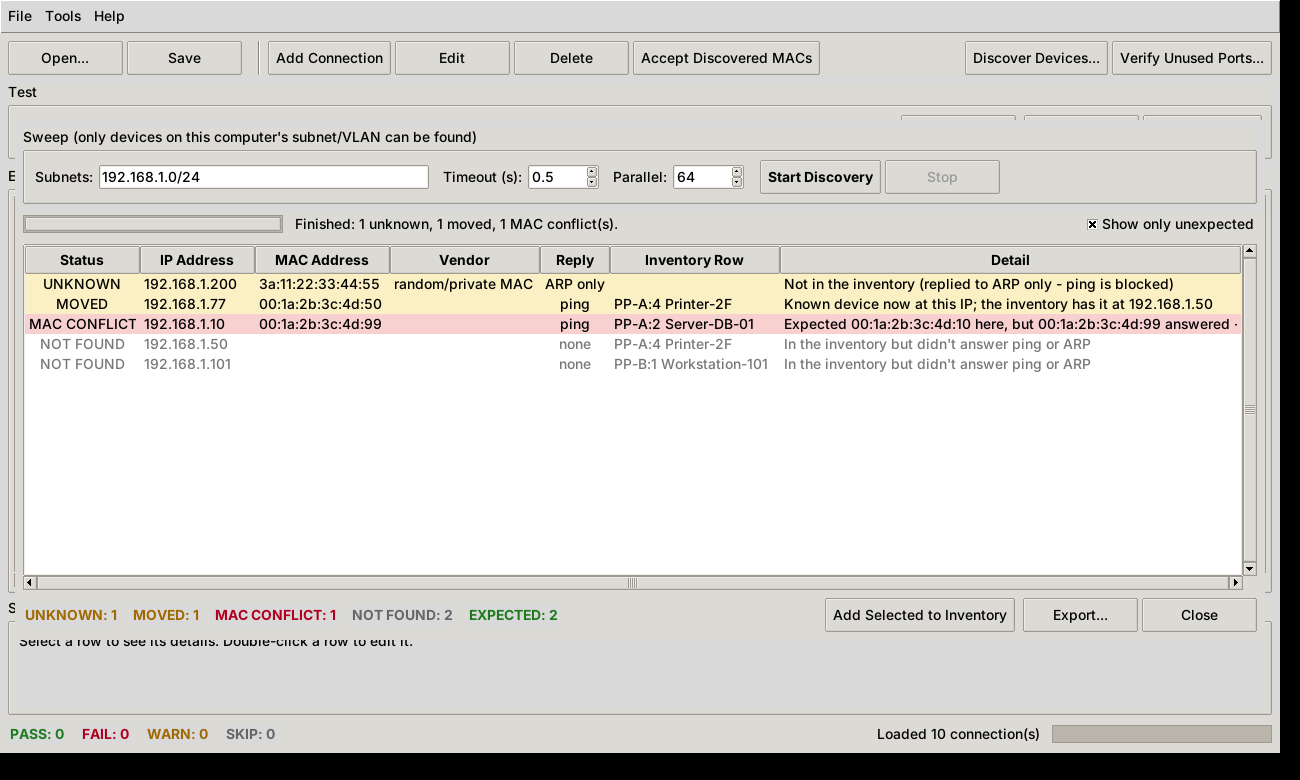
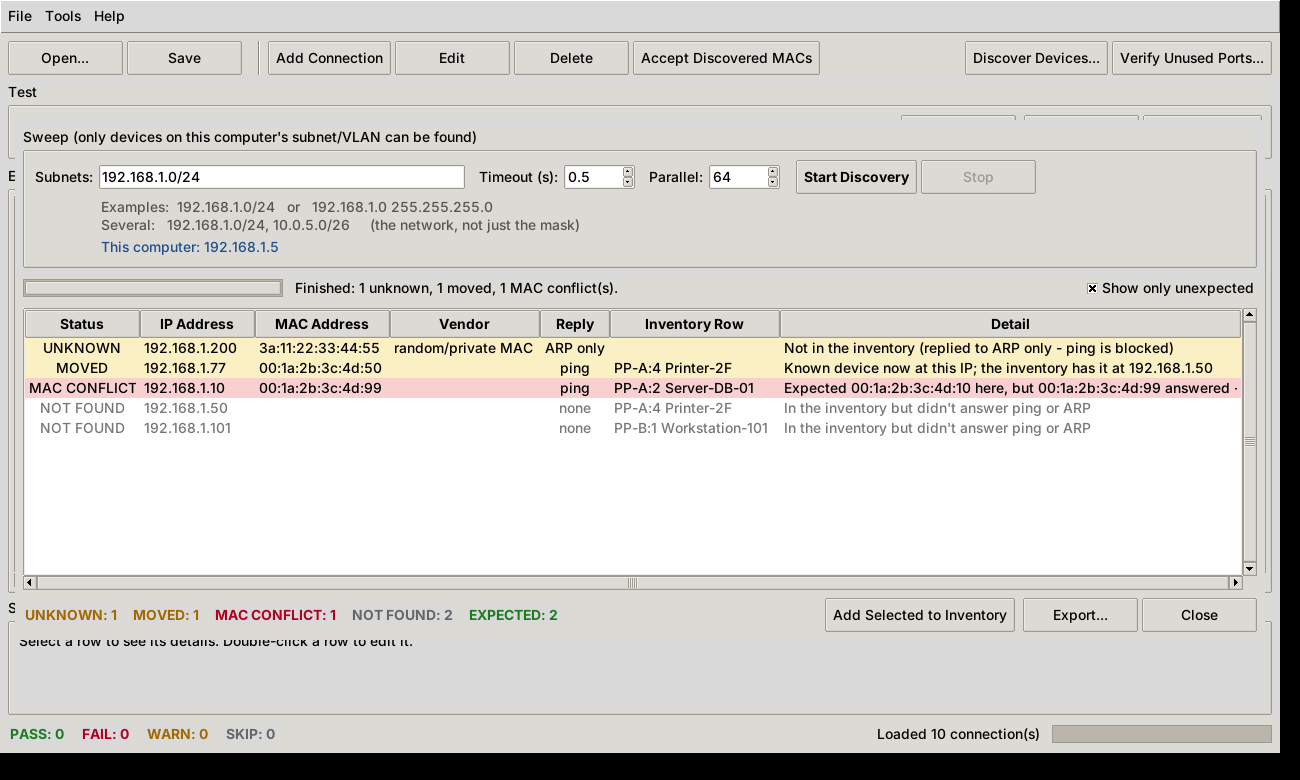
Discover: reject subnet masks, accept address+mask, show examples
Entering just a mask (255.255.255.0) was taken as a single address and
swept nothing. It is now rejected with an explanation, and 'address mask'
input (192.168.1.0 255.255.255.0) is accepted. The Discover window shows
example input under the Subnets box and this computer's address,
suggests this computer's /24 when the inventory has no IPs, and warns
(GUI and CLI) when this computer isn't on the subnet being swept.

Claude-Session: https://claude.ai/code/session_01CuMZKXUbn4wXZtKASvUzuW

Changed region(s): [[0.0, 0.2154, 0.9846, 0.5538]]

diff --git a/netcheck/discover.py b/netcheck/discover.py
@@ -58,16 +58,49 @@ class Found:
 
 # ------------------------------------------------------------------- subnets
 
+def is_netmask(text: str) -> bool:
+    """True for a dotted subnet mask such as 255.255.255.0."""
+    try:
+        value = int(ipaddress.IPv4Address(text))
+    except ValueError:
+        return False
+    inverted = ~value & 0xFFFFFFFF
+    # A mask is a run of 1s followed by 0s, and starts with 255.
+    return value >> 24 == 0xFF and inverted & (inverted + 1) == 0
+
+
 def parse_subnets(text: str, max_hosts: int = DEFAULT_MAX_HOSTS) -> list[ipaddress.IPv4Network]:
-    """Parse '192.168.1.0/24, 10.0.5.10' into networks. Raises ValueError if invalid."""
+    """Parse subnets into networks. Raises ValueError, with a hint, if invalid.
+
+    Accepts CIDR ('192.168.1.0/24'), an address in the subnet ('192.168.1.20/24'),
+    'address mask' pairs ('192.168.1.0 255.255.255.0' or '192.168.1.0/255.255.255.0'),
+    and single addresses ('10.0.5.10').
+    """
     networks: list[ipaddress.IPv4Network] = []
-    for part in text.replace(",", " ").split():
+    parts = text.replace(",", " ").split()
+    i = 0
+    while i < len(parts):
+        part = parts[i]
+        # "192.168.1.0 255.255.255.0": an address followed by its mask.
+        if "/" not in part and i + 1 < len(parts) and is_netmask(parts[i + 1]) \
+                and not is_netmask(part):
+            part = f"{part}/{parts[i + 1]}"
+            i += 1
+        i += 1
+        if is_netmask(part.split("/")[0]):
+            raise ValueError(
+                f"'{part}' is a subnet mask, not a subnet. Enter the network your devices "
+                "are on, e.g. 192.168.1.0/24 for addresses 192.168.1.x with mask "
+                "255.255.255.0 (or type '192.168.1.0 255.255.255.0').")
         try:
             network = ipaddress.ip_network(part, strict=False)
         except ValueError as exc:
             raise ValueError(f"'{part}' is not a subnet (use e.g. 192.168.1.0/24)") from exc
         if network.version != 4:
             raise ValueError(f"'{part}': only IPv4 subnets can be swept")
+        if network.network_address.is_unspecified or network.network_address.is_multicast:
+            raise ValueError(f"'{part}' isn't a network devices can be on "
+                             "(use e.g. 192.168.1.0/24)")
         if network not in networks:
             networks.append(network)
     if not networks:
@@ -93,8 +126,24 @@ def hosts(networks: Iterable[ipaddress.IPv4Network]) -> list[str]:
     return list(seen)
 
 
-def suggest_subnets(connections: Iterable[Connection]) -> list[str]:
-    """The /24 subnets containing the inventory's IPv4 addresses."""
+def primary_address() -> Optional[str]:
+    """This computer's main IPv4 address (the one its default route uses), if any."""
+    try:
+        with socket.socket(socket.AF_INET, socket.SOCK_DGRAM) as sock:
+            sock.connect(("192.0.2.1", 9))  # documentation address; nothing is sent
+            address = sock.getsockname()[0]
+    except OSError:
+        return None
+    return None if address.startswith(("0.", "127.")) else address
+
+
+def suggest_subnets(connections: Iterable[Connection],
+                    fallback: Optional[str] = None) -> list[str]:
+    """The /24 subnets containing the inventory's IPv4 addresses.
+
+    If the inventory has none, the /24 around ``fallback`` (normally this
+    computer's own address) is suggested instead.
+    """
     subnets: dict[str, None] = {}
     for conn in connections:
         try:
@@ -103,7 +152,22 @@ def suggest_subnets(connections: Iterable[Connection]) -> list[str]:
             continue
         if address.version == 4:
             subnets[str(ipaddress.ip_network(f"{address}/24", strict=False))] = None
+    if not subnets and fallback:
+        subnets[str(ipaddress.ip_network(f"{fallback}/24", strict=False))] = None
     return list(subnets)
+
+
+def off_subnet_warning(networks: list[ipaddress.IPv4Network],
+                       local_ips: Iterable[str]) -> Optional[str]:
+    """Warn when this computer has no address in any of the swept subnets."""
+    if set(local_ips):
+        return None
+    mine = primary_address()
+    hint = (f" This computer is {mine}, so you may want "
+            f"{ipaddress.ip_network(f'{mine}/24', strict=False)}." if mine else "")
+    return ("This computer doesn't have an address in "
+            f"{', '.join(map(str, networks))}. Devices there may answer ping, but their MAC "
+            "addresses can't be read, and devices that block ping won't be found." + hint)
 
 
 def local_addresses(networks: Iterable[ipaddress.IPv4Network]) -> set[str]:

diff --git a/netcheck/gui_discover.py b/netcheck/gui_discover.py
@@ -11,7 +11,8 @@ from typing import Optional
 
 from .discover import (
     DEFAULT_OUI_PATH, EXPECTED, MAC_CONFLICT, MOVED, NOT_FOUND, UNKNOWN, Found, discover,
-    found_row, load_oui, new_entry, parse_subnets, suggest_subnets, summarize, write_discovery,
+    found_row, load_oui, local_addresses, new_entry, off_subnet_warning, parse_subnets,
+    primary_address, suggest_subnets, summarize, write_discovery,
 )
 from .inventory import InventoryError, parse_inventory
 
@@ -65,31 +66,43 @@ class DiscoverWindow(tk.Toplevel):
         frame = ttk.LabelFrame(self, text="Sweep (only devices on this computer's subnet/VLAN "
                                           "can be found)", padding=8)
         frame.pack(fill="x", padx=8, pady=8)
-        self.subnets_var = tk.StringVar(value=", ".join(suggest_subnets(self._connections())))
+        self.my_address = primary_address()
+        self.subnets_var = tk.StringVar(value=", ".join(
+            suggest_subnets(self._connections(), fallback=self.my_address)))
         self.timeout_var = tk.DoubleVar(value=0.5)
         self.workers_var = tk.IntVar(value=64)
         self.only_unexpected = tk.BooleanVar(value=True)
 
-        ttk.Label(frame, text="Subnets:").pack(side="left")
-        ttk.Entry(frame, textvariable=self.subnets_var, width=36).pack(side="left", padx=(4, 12))
-        ttk.Label(frame, text="Timeout (s):").pack(side="left")
+        ttk.Label(frame, text="Subnets:").grid(row=0, column=0, sticky="w")
+        ttk.Entry(frame, textvariable=self.subnets_var, width=40).grid(
+            row=0, column=1, sticky="w", padx=(4, 12))
+        ttk.Label(frame, text="Timeout (s):").grid(row=0, column=2, sticky="w")
         ttk.Spinbox(frame, from_=0.2, to=5, increment=0.1, textvariable=self.timeout_var,
-                    width=5).pack(side="left", padx=(4, 12))
-        ttk.Label(frame, text="Parallel:").pack(side="left")
+                    width=5).grid(row=0, column=3, sticky="w", padx=(4, 12))
+        ttk.Label(frame, text="Parallel:").grid(row=0, column=4, sticky="w")
         ttk.Spinbox(frame, from_=1, to=256, increment=8, textvariable=self.workers_var,
-                    width=5).pack(side="left", padx=(4, 12))
+                    width=5).grid(row=0, column=5, sticky="w", padx=(4, 12))
         self.start_button = ttk.Button(frame, text="Start Discovery", style="Run.TButton",
                                        command=self.start)
-        self.start_button.pack(side="left", padx=4)
+        self.start_button.grid(row=0, column=6, padx=4)
         self.stop_button = ttk.Button(frame, text="Stop", command=self.stop, state="disabled")
-        self.stop_button.pack(side="left")
+        self.stop_button.grid(row=0, column=7)
+        # Example input, directly under the Subnets box.
+        ttk.Label(frame, foreground="#555555", justify="left", text=(
+            "Examples:  192.168.1.0/24   or   192.168.1.0 255.255.255.0\n"
+            "Several:   192.168.1.0/24, 10.0.5.0/26     (the network, not just the mask)")
+        ).grid(row=1, column=1, columnspan=7, sticky="w", padx=(4, 0), pady=(2, 0))
+        if self.my_address:
+            ttk.Label(frame, foreground="#1f4e8c",
+                      text=f"This computer: {self.my_address}").grid(
+                row=2, column=1, columnspan=7, sticky="w", padx=(4, 0))
 
         bar = ttk.Frame(self, padding=(8, 0))
         bar.pack(fill="x")
         self.progress = ttk.Progressbar(bar, length=260, mode="determinate")
         self.progress.pack(side="left")
-        self.progress_label = ttk.Label(bar, text="Enter the subnet(s) to sweep, e.g. "
-                                                  "192.168.1.0/24, then press Start Discovery.")
+        self.progress_label = ttk.Label(
+            bar, text="Enter the subnet(s) to sweep, then press Start Discovery.")
         self.progress_label.pack(side="left", padx=10)
         ttk.Checkbutton(bar, text="Show only unexpected", variable=self.only_unexpected,
                         command=self.show).pack(side="right")
@@ -173,6 +186,10 @@ class DiscoverWindow(tk.Toplevel):
                                  parent=self)
             return
         count = sum(n.num_addresses for n in networks)
+        warning = off_subnet_warning(networks, local_addresses(networks))
+        if warning and not messagebox.askokcancel("Different subnet", warning + "\n\nSweep "
+                                                  "anyway?", icon="warning", parent=self):
+            return
         if not DiscoverWindow.scan_confirmed:
             if not messagebox.askokcancel(
                     "Network sweep",

diff --git a/tests/test_discover.py b/tests/test_discover.py
@@ -11,8 +11,9 @@ from unittest import mock
 
 from netcheck import discovercli
 from netcheck.discover import (
-    EXPECTED, MAC_CONFLICT, MOVED, NOT_FOUND, UNKNOWN, classify, discover, hosts, load_oui,
-    new_entry, parse_subnets, suggest_subnets, sweep, vendor_of, write_discovery,
+    EXPECTED, MAC_CONFLICT, MOVED, NOT_FOUND, UNKNOWN, classify, discover, hosts, is_netmask,
+    load_oui, new_entry, off_subnet_warning, parse_subnets, suggest_subnets, sweep, vendor_of,
+    write_discovery,
 )
 from netcheck.inventory import load_inventory
 from netcheck.mac import is_locally_administered, parse_arp_table
@@ -82,10 +83,33 @@ class SubnetTests(unittest.TestCase):
         self.assertEqual(len(hosts(nets)), 254 + 2 + 1)
         self.assertEqual(str(parse_subnets("192.168.1.77/24")[0]), "192.168.1.0/24")
 
+    def test_masks(self):
+        with self.assertRaises(ValueError) as ctx:
+            parse_subnets("255.255.255.0")
+        self.assertIn("'255.255.255.0' is a subnet mask, not a subnet", str(ctx.exception))
+        self.assertIn("192.168.1.0/24", str(ctx.exception))
+        for text in ("192.168.1.0 255.255.255.0", "192.168.1.20 255.255.255.0",
+                     "192.168.1.0/255.255.255.0", "192.168.1.20/24"):
+            self.assertEqual([str(n) for n in parse_subnets(text)], ["192.168.1.0/24"], text)
+        self.assertEqual([str(n) for n in parse_subnets("10.0.0.8 255.255.255.248, 10.1.0.0/30")],
+                         ["10.0.0.8/29", "10.1.0.0/30"])
+        self.assertTrue(is_netmask("255.255.255.192"))
+        self.assertFalse(is_netmask("255.0.255.0"))
+        self.assertFalse(is_netmask("192.168.1.1"))
+
+    def test_off_subnet_warning(self):
+        nets = parse_subnets("192.168.1.0/24")
+        self.assertIsNone(off_subnet_warning(nets, {"192.168.1.5"}))
+        with mock.patch("netcheck.discover.primary_address", return_value="10.20.30.40"):
+            warning = off_subnet_warning(nets, set())
+        self.assertIn("doesn't have an address in 192.168.1.0/24", warning)
+        self.assertIn("This computer is 10.20.30.40, so you may want 10.20.30.0/24", warning)
+        self.assertEqual(suggest_subnets([], fallback="10.20.30.40"), ["10.20.30.0/24"])
+
     def test_rejects(self):
         for text, message in [("", "at least one subnet"), ("fe80::/64", "only IPv4"),
                               ("10.0.0.0/16", "65534 addresses; the limit is 1024"),
-                              ("banana", "'banana' is not a subnet")]:
+                              ("banana", "'banana' is not a subnet"), ("0.0.0.0", "isn't a network")]:
             with self.assertRaises(ValueError) as ctx:
                 parse_subnets(text)
             self.assertIn(message, str(ctx.exception))
@@ -199,6 +223,7 @@ class DiscoverCliTests(unittest.TestCase):
                                                        arp_fn=lambda: ARP,
                                                        local_ips={"192.168.1.5"}, **kw)), \
                 mock.patch.object(discovercli.shutil, "which", return_value="/bin/ping"), \
+                mock.patch.object(discovercli, "local_addresses", return_value={"192.168.1.5"}), \
                 mock.patch("sys.stdout", out), mock.patch("sys.stderr", err):
             code = discovercli.main(args)
         return code, out.getvalue(), err.getvalue()
@@ -224,9 +249,13 @@ class DiscoverCliTests(unittest.TestCase):
         code, out, _ = self.run_cli(["--subnet", "192.168.1.0/24", "--all", "--no-colour"])
         self.assertEqual(code, 1)
         self.assertIn("5 unknown", out)
-        code, _out, err = self.run_cli([])
+        with mock.patch.object(discovercli, "primary_address", return_value=None):
+            code, _out, err = self.run_cli([])
         self.assertEqual(code, 2)
         self.assertIn("give the subnet(s) to sweep", err)
+        code, _out, err = self.run_cli(["--subnet", "255.255.255.0"])
+        self.assertEqual(code, 2)
+        self.assertIn("is a subnet mask, not a subnet", err)
 
 
 if __name__ == "__main__":

diff --git a/netcheck/discovercli.py b/netcheck/discovercli.py
@@ -10,7 +10,8 @@ from typing import Optional
 from . import __version__
 from .discover import (
     DEFAULT_MAX_HOSTS, DEFAULT_OUI_PATH, EXPECTED, UNEXPECTED, UNKNOWN, discover, found_row,
-    load_oui, new_entry, parse_subnets, suggest_subnets, summarize, write_discovery,
+    load_oui, local_addresses, new_entry, off_subnet_warning, parse_subnets, primary_address,
+    suggest_subnets, summarize, write_discovery,
 )
 from .inventory import InventoryError, parse_inventory, read_json
 from .report import save_json
@@ -37,8 +38,9 @@ def build_parser() -> argparse.ArgumentParser:
     parser.add_argument("inventory", nargs="?",
                         help="JSON inventory to compare with (optional)")
     parser.add_argument("-s", "--subnet", action="append", metavar="CIDR",
-                        help="subnet to sweep, e.g. 192.168.1.0/24 (repeatable; default: "
-                             "the /24s of the inventory's IP addresses)")
+                        help="subnet to sweep, e.g. 192.168.1.0/24 or '192.168.1.0 "
+                             "255.255.255.0' (repeatable; default: the /24s of the "
+                             "inventory's IP addresses, else this computer's /24)")
     parser.add_argument("-t", "--timeout", type=float, default=0.5,
                         help="seconds to wait for each ping reply (default 0.5)")
     parser.add_argument("-w", "--workers", type=int, default=64,
@@ -91,7 +93,8 @@ def main(argv: Optional[list[str]] = None) -> int:
         print("error: --add-unknown needs an inventory file", file=sys.stderr)
         return EXIT_BAD_INPUT
 
-    subnet_text = " ".join(args.subnet or suggest_subnets(connections))
+    subnet_text = " ".join(args.subnet or suggest_subnets(connections,
+                                                          fallback=primary_address()))
     if not subnet_text:
         print("error: give the subnet(s) to sweep with --subnet, e.g. 192.168.1.0/24",
               file=sys.stderr)
@@ -108,6 +111,9 @@ def main(argv: Optional[list[str]] = None) -> int:
         print("error: the 'ping' command was not found on this system", file=sys.stderr)
         return EXIT_BAD_INPUT
 
+    warning = off_subnet_warning(networks, local_addresses(networks))
+    if warning:
+        print(f"warning: {warning}", file=sys.stderr)
     subnets = [str(n) for n in networks]
     total = sum(n.num_addresses for n in networks)
     print(f"Sweeping {', '.join(subnets)} (up to {total} addresses). Only devices on this "

diff --git a/tests/test_gui.py b/tests/test_gui.py
@@ -237,6 +237,7 @@ class DiscoverGuiTests(GuiTests):
 
         with mock.patch.object(gui_discover, "discover", fake_discover), \
                 mock.patch.object(gui_discover.shutil, "which", return_value="/bin/ping"), \
+                mock.patch.object(gui_discover, "local_addresses", return_value={"192.168.1.5"}), \
                 mock.patch.object(gui_discover.messagebox, "askokcancel",
                                   return_value=True) as confirm:
             gui_discover.DiscoverWindow.scan_confirmed = False
@@ -274,6 +275,26 @@ class DiscoverGuiTests(GuiTests):
             self.assertIn("1 selected row(s) weren't unknown", gui.messagebox.showinfo.call_args[0][1])
             window.close()
             self.assertIsNone(self.app.discover_window)
+
+    def test_discover_rejects_mask_and_warns_off_subnet(self):
+        from netcheck import gui_discover
+        with mock.patch.object(gui_discover.shutil, "which", return_value="/bin/ping"), \
+                mock.patch.object(gui_discover, "local_addresses", return_value=set()), \
+                mock.patch("netcheck.discover.primary_address", return_value="10.20.30.40"), \
+                mock.patch.object(gui_discover.messagebox, "askokcancel",
+                                  return_value=False) as ask:
+            self.app.open_discover()
+            window = self.app.discover_window
+            window.subnets_var.set("255.255.255.0")
+            window.start()
+            self.assertIn("is a subnet mask, not a subnet",
+                          gui.messagebox.showerror.call_args[0][1])
+            window.subnets_var.set("192.168.1.0 255.255.255.0")
+            window.start()  # this computer isn't on 192.168.1.0/24: warn, user cancels
+            self.assertEqual(ask.call_args[0][0], "Different subnet")
+            self.assertIn("so you may want 10.20.30.0/24", ask.call_args[0][1])
+            self.assertFalse(window.running())
+            window.close()
 
     # Don't re-run the inherited ping tests in this class.
     test_run_accept_and_save = test_filter_by_switch = None

diff --git a/README.md b/README.md
@@ -85,7 +85,10 @@ everything else that's there.
 ![Discover devices](docs/discover.png)
 
 In the GUI, click **Discover Devices...**. The subnets are pre-filled from the inventory's IP
-addresses (their /24s) and can be edited, e.g. `192.168.1.0/24, 192.168.2.0/26`. Press
+addresses (their /24s), or from this computer's own address if the inventory has none. Enter
+the **network**, not just the mask: `192.168.1.0/24`, or `192.168.1.0 255.255.255.0`, or several
+separated by commas. Examples are shown under the box, along with this computer's address. If
+the computer isn't on the subnet you entered, you're warned before the sweep starts. Press
 **Start Discovery**. Each address gets one ping; a /24 takes about 5-10 seconds. Then this
 computer's ARP table is read, which also catches devices that block ping. Each device found is
 listed as:
